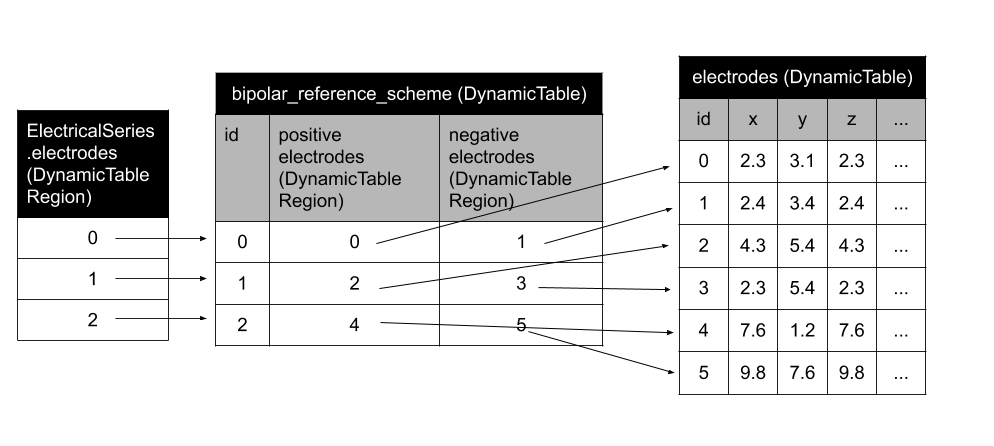
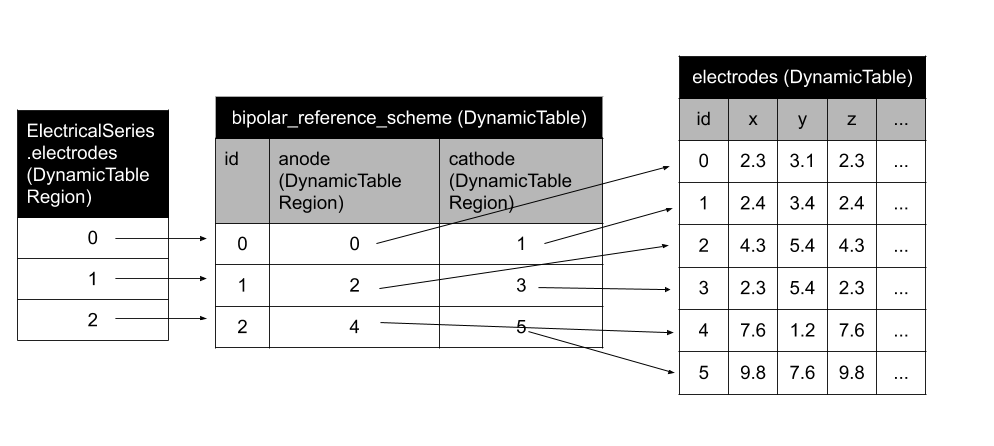
rename to anode and cathode version bump

Changed region(s): [[0.2183, 0.1457, 0.6237, 0.5538], [0.2183, 0.583, 0.5926, 0.787], [0.2183, 0.3498, 0.2495, 0.3789]]

diff --git a/src/pynwb/tests/test_ext.py b/src/pynwb/tests/test_ext.py
@@ -22,19 +22,19 @@ def test_ext():
         nwbfile.add_electrode(np.nan, np.nan, np.nan, np.nan, 'loc', 'filt',
                               electrode_group)
 
-    positive_electrodes = DynamicTableRegion('positive_electrodes',
-                                             np.arange(0, 20, 2),
-                                             'desc',
-                                             nwbfile.electrodes)
-    negative_electrodes = DynamicTableRegion('negative_electrodes',
-                                             np.arange(1, 20, 2),
-                                             'desc',
-                                             nwbfile.electrodes)
+    anode_electrodes = DynamicTableRegion('anode',
+                                          np.arange(0, 20, 2),
+                                          'desc',
+                                          nwbfile.electrodes)
+    cathode_electrodes = DynamicTableRegion('cathode',
+                                            np.arange(1, 20, 2),
+                                            'desc',
+                                            nwbfile.electrodes)
 
     bipolar_reference_scheme = DynamicTable(name='bipolar_reference_scheme',
                                             description='desc',
-                                            columns=[positive_electrodes,
-                                                     negative_electrodes])
+                                            columns=[anode_electrodes,
+                                                     cathode_electrodes])
 
     ecephys_ext = EcephysExt(bipolar_reference_scheme=bipolar_reference_scheme)
     nwbfile.add_lab_meta_data(ecephys_ext)
@@ -58,7 +58,7 @@ def test_ext():
 
     with NWBHDF5IO('test_nwb.nwb', 'r', load_namespaces=True) as io:
         nwbfile = io.read()
-        assert_array_equal(nwbfile.acquisition['test_ec_series'].electrodes.table['positive_electrodes'].data,
+        assert_array_equal(nwbfile.acquisition['test_ec_series'].electrodes.table['anode'].data,
                            np.arange(0, 20, 2))
 
     os.remove('test_nwb.nwb')

diff --git a/src/spec/create_extension_spec.py b/src/spec/create_extension_spec.py
@@ -2,9 +2,7 @@
 
 import os.path
 
-from pynwb.spec import NWBNamespaceBuilder, export_spec, NWBGroupSpec, NWBAttributeSpec
-# TODO: import the following spec classes as needed
-# from pynwb.spec import NWBDatasetSpec, NWBLinkSpec, NWBDtypeSpec, NWBRefSpec
+from pynwb.spec import NWBNamespaceBuilder, export_spec, NWBGroupSpec
 
 
 def main():
@@ -28,10 +26,10 @@ def main():
                                                      neurodata_type_inc='DynamicTable',
                                                      doc='Table that holds information about the bilpolar referencing '
                                                          'scheme used')
-    bipolar_reference_scheme.add_dataset(name='positive_electrodes',
+    bipolar_reference_scheme.add_dataset(name='anode',
                                          neurodata_type_inc='DynamicTableRegion',
                                          doc='references the electrodes table')
-    bipolar_reference_scheme.add_dataset(name='negative_electrodes',
+    bipolar_reference_scheme.add_dataset(name='cathode',
                                          neurodata_type_inc='DynamicTableRegion',
                                          doc='references the electrodes table')
 

diff --git a/setup.py b/setup.py
@@ -13,7 +13,7 @@ with open(path.join(here, 'README.md'), encoding='utf-8') as f:
 
 setup_args = {
     'name': 'ndx-bipolar-referencing',
-    'version': '0.1.2',
+    'version': '0.2.0',
     'description': 'An NWB:N extension for storing bipolar referencing schema',
     'author': 'Ben Dichter',
     'author_email': 'ben.dichter@gmail.com',

diff --git a/README.md b/README.md
@@ -31,19 +31,19 @@ for _ in range(20):
     nwbfile.add_electrode(np.nan, np.nan, np.nan, np.nan, 'loc', 'filt',
                           electrode_group)
 
-positive_electrodes = DynamicTableRegion('positive_electrodes',
-                                         np.arange(0, 20, 2),
-                                         'desc',
-                                         nwbfile.electrodes)
-negative_electrodes = DynamicTableRegion('negative_electrodes',
-                                         np.arange(1, 20, 2),
-                                         'desc',
-                                         nwbfile.electrodes)
+anode_electrodes = DynamicTableRegion('anode',
+                                      np.arange(0, 20, 2),
+                                      'desc',
+                                      nwbfile.electrodes)
+cathode_electrodes = DynamicTableRegion('cathode',
+                                        np.arange(1, 20, 2),
+                                        'desc',
+                                        nwbfile.electrodes)
 
 bipolar_reference_scheme = DynamicTable(name='bipolar_reference_scheme',
                                         description='desc',
-                                        columns=[positive_electrodes,
-                                                 negative_electrodes])
+                                        columns=[anode_electrodes,
+                                                 cathode_electrodes])
 
 ecephys_ext = EcephysExt(bipolar_reference_scheme=bipolar_reference_scheme)
 nwbfile.add_lab_meta_data(ecephys_ext)
@@ -67,5 +67,5 @@ with NWBHDF5IO('test_nwb.nwb', 'w') as io:
 
 with NWBHDF5IO('test_nwb.nwb', 'r', load_namespaces=True) as io:
     nwbfile = io.read()
-    print(nwbfile.acquisition['test_ec_series'].electrodes.table['positive_electrodes'].data)
+    print(nwbfile.acquisition['test_ec_series'].electrodes.table['anode'].data)
 ```
